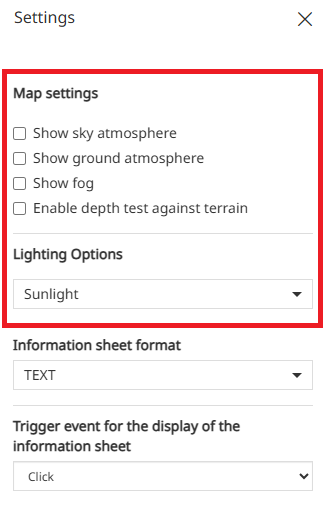
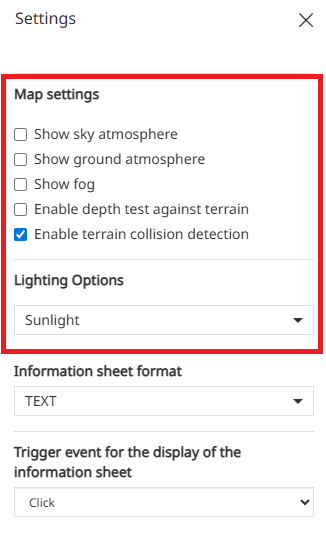
add_11366

diff --git a/docs/user-guide/mapstore-toolbars.md b/docs/user-guide/mapstore-toolbars.md
@@ -197,6 +197,8 @@ In particular, with these options it is possible to:
 
     * Enable the **Depth test against terrain** if primitives such as billboards, polylines, labels, etc. should be depth-tested against the terrain surface instead of always having them drawn on top of terrain unless they're on the opposite side of the globe
 
+    * Disable the **Terrain collision detection** to allow underground navigation.
+
     * Set the **Lighting Options** to configure the light source within the *Cesium* 3D viewer. The user can choose from the following modes:
         - **Sunlight**: this is the default behavior. The scene is illuminated based on the position of the real sun, updating dynamically according to the current system time and camera location.
         - **Flashlight**: a fixed light source is attached to the camera, simulating a flashlight effect.
